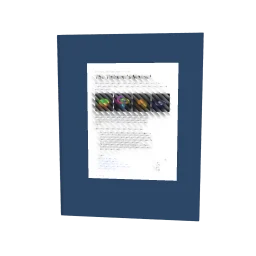
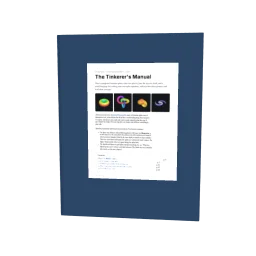
95: guard oblique page opacity on both renderers and finish bounded phone recording tools

diff --git a/tools/pages-review-package.py b/tools/pages-review-package.py
@@ -17,7 +17,10 @@ import sys
 from PIL import Image, ImageDraw, ImageFont
 
 root = Path(__file__).resolve().parent.parent
-work = (root / (sys.argv[1] if len(sys.argv) > 1 else 'work/pages-r2')).resolve()
+arguments = [a for a in sys.argv[1:] if not a.startswith('--')]
+work = (root / (arguments[0] if arguments else 'work/pages-r2')).resolve()
+motion_only = '--motion-only' in sys.argv[1:]
+benchmark_only = '--benchmark-only' in sys.argv[1:]
 out = work / 'clips-tree/docs/audits/pages-r2-2026-10-clips'
 out.mkdir(parents=True, exist_ok=True)
 scenes = {'r2-book': 'your-book', 'r2-lab': 'picture-lab', 'r2-album': 'photo-album', 'r2-text': 'text', 'r2-chart': 'chart', 'r2-diagram': 'diagram'}
@@ -51,90 +54,100 @@ def encode(label, scene):
     solo = out / f'{scenes[scene]}-{label}.mp4'
     ffmpeg(['-i', str(movie), '-vf', f"pad=iw:ih+44:0:44:color=white,drawtext=fontfile={font_path}:text='{label}':x=8:y=3:fontsize=17:fontcolor=black,drawtext=fontfile={font_path}:text='Stepped animation - preparation waits omitted':x=8:y=26:fontsize=10:fontcolor=black", '-c:v', 'libx264', '-crf', '16', '-preset', 'medium', '-pix_fmt', 'yuv420p', '-threads', '2', '-movflags', '+faststart', str(solo)])
     meta = json.loads((work / f'clips-{label}' / f'pg6-{scene}.json').read_text())
+    # Keep the launcher's initial tool hash separately when the recorder
+    # itself reports the exact version executed for this scene.
+    initial_hash = meta.get('recorderSha256')
+    if initial_hash:
+        meta['orchestratorInitialRecorderSha256'] = initial_hash
+        meta['recorderSha256'] = meta.get('executedRecorderSha256', initial_hash)
     if abs(total * 1000 - meta['durationMs']) > .1:
         raise ValueError('Frame durations do not match recorder metadata')
     return movie, raw, entries, meta
 
-# Archive the exact quantitative inputs and crops beside the motion evidence.
-import hashlib
-import shutil
+if not motion_only:
+    # Archive the exact quantitative inputs and crops beside the motion evidence.
+    import hashlib
+    import shutil
 
-bench = out / 'benchmark'
-crops = bench / 'crops'
-stills = out / 'stills'
-for directory in [bench, crops, stills]:
-    directory.mkdir(parents=True, exist_ok=True)
-data = {}
-artifacts = {}
-for revision in ['main', 'round2']:
-    data[revision] = json.loads((work / f'paired-{revision}.json').read_text())
-    if len(data[revision]['records']) != 72:
-        raise ValueError('A final matrix needs 72 records per revision')
-    shutil.copyfile(work / f'paired-{revision}.json', bench / f'{revision}.json')
-    for record in data[revision]['records']:
-        profile, toy, case = [record[k] for k in ['profile', 'toy', 'input']]
-        repeat = record['comparisonRepeat']
-        original = root / record['artifactDirectory']
-        stem = f'{profile}-{toy}-{case}-{record["repeat"]}'
-        name = f'{profile}-{toy}-{case}-{repeat}-{revision}'
-        artifacts[name] = {}
-        for kind in ['source', 'render']:
-            target = crops / f'{name}-{kind}.png'
-            shutil.copyfile(original / f'{stem}-{kind}.png', target)
-            if target.stat().st_size > 1_000_000:
-                raise ValueError(f'A review image exceeds 1 MB: {target}')
-            artifacts[name][kind] = {'file': str(target.relative_to(out)), 'sha256': hashlib.sha256(target.read_bytes()).hexdigest()}
-        if revision == 'round2' and case == 'sample' and repeat == 1:
-            image = Image.open(original / f'{stem}.png').convert('RGB')
-            target = stills / f'{profile}-{toy}.jpg'
-            for quality in [95, 90, 85, 80]:
-                image.save(target, quality=quality, optimize=True, progressive=True)
-                if target.stat().st_size <= 1_000_000:
-                    break
-            if target.stat().st_size > 1_000_000:
-                raise ValueError('A whole-page review screenshot exceeds 1 MB')
-for suffix in ['md', 'json']:
-    shutil.copyfile(work / f'paired-comparison.{suffix}', bench / f'comparison.{suffix}')
-(bench / 'artifacts.json').write_text(json.dumps(artifacts, indent=2) + '\n')
-comparison = json.loads((bench / 'comparison.json').read_text())
-for toy in ['picture-lab', 'your-book', 'photo-album']:
-    name = f'phone-{toy}-text-1'
-    paths = [crops / f'{name}-main-source.png', crops / f'{name}-main-render.png', crops / f'{name}-round2-render.png']
-    images = [Image.open(p).convert('RGB') for p in paths]
-    row = next(r for r in comparison['rows'] if r['profile'] == 'phone' and r['toy'] == toy and r['input'] == 'text')
-    width = max(440, *(im.width for im in images))
-    height = sum(im.height + 30 for im in images) + 90
-    sheet = Image.new('RGB', (width, height), 'white')
-    draw = ImageDraw.Draw(sheet)
-    font_small = ImageFont.truetype(font_path, 14)
-    draw.text((8, 4), f'{toy}: phone body text', font=font_small, fill='black')
-    draw.text((8, 24), 'Native pixels, no crop resizing; repeat 1', font=font_small, fill='black')
-    draw.text((8, 44), f'Medians: sharpness +{row["rawEdgeGain"] * 100:.1f}%, SSIM {row["ssimGain"]:+.4f}', font=font_small, fill='black')
-    y = 90
-    for label, im in zip(['Independent source', 'Main', 'Round 2'], images):
-        draw.text((8, y + 3), label, font=font_small, fill='black')
-        sheet.paste(im, (0, y + 30))
-        y += im.height + 30
-    target = stills / f'phone-{toy}-text.png'
-    sheet.save(target, optimize=True)
-    if target.stat().st_size > 1_000_000:
-        raise ValueError('A body-text comparison exceeds 1 MB')
-(stills / 'README.md').write_text('''# Still comparisons
+    bench = out / 'benchmark'
+    crops = bench / 'crops'
+    stills = out / 'stills'
+    for directory in [bench, crops, stills]:
+        directory.mkdir(parents=True, exist_ok=True)
+    data = {}
+    artifacts = {}
+    for revision in ['main', 'round2']:
+        data[revision] = json.loads((work / f'paired-{revision}.json').read_text())
+        if len(data[revision]['records']) != 72:
+            raise ValueError('A final matrix needs 72 records per revision')
+        shutil.copyfile(work / f'paired-{revision}.json', bench / f'{revision}.json')
+        for record in data[revision]['records']:
+            profile, toy, case = [record[k] for k in ['profile', 'toy', 'input']]
+            repeat = record['comparisonRepeat']
+            original = root / record['artifactDirectory']
+            stem = f'{profile}-{toy}-{case}-{record["repeat"]}'
+            name = f'{profile}-{toy}-{case}-{repeat}-{revision}'
+            artifacts[name] = {}
+            for kind in ['source', 'render']:
+                target = crops / f'{name}-{kind}.png'
+                shutil.copyfile(original / f'{stem}-{kind}.png', target)
+                if target.stat().st_size > 1_000_000:
+                    raise ValueError(f'A review image exceeds 1 MB: {target}')
+                artifacts[name][kind] = {'file': str(target.relative_to(out)), 'sha256': hashlib.sha256(target.read_bytes()).hexdigest()}
+            if revision == 'round2' and case == 'sample' and repeat == 1:
+                image = Image.open(original / f'{stem}.png').convert('RGB')
+                target = stills / f'{profile}-{toy}.jpg'
+                for quality in [95, 90, 85, 80]:
+                    image.save(target, quality=quality, optimize=True, progressive=True)
+                    if target.stat().st_size <= 1_000_000:
+                        break
+                if target.stat().st_size > 1_000_000:
+                    raise ValueError('A whole-page review screenshot exceeds 1 MB')
+    for suffix in ['md', 'json']:
+        shutil.copyfile(work / f'paired-comparison.{suffix}', bench / f'comparison.{suffix}')
+    (bench / 'artifacts.json').write_text(json.dumps(artifacts, indent=2) + '\n')
+    comparison = json.loads((bench / 'comparison.json').read_text())
+    for toy in ['picture-lab', 'your-book', 'photo-album']:
+        name = f'phone-{toy}-text-1'
+        paths = [crops / f'{name}-main-source.png', crops / f'{name}-main-render.png', crops / f'{name}-round2-render.png']
+        images = [Image.open(p).convert('RGB') for p in paths]
+        row = next(r for r in comparison['rows'] if r['profile'] == 'phone' and r['toy'] == toy and r['input'] == 'text')
+        width = max(440, *(im.width for im in images))
+        height = sum(im.height + 30 for im in images) + 90
+        sheet = Image.new('RGB', (width, height), 'white')
+        draw = ImageDraw.Draw(sheet)
+        font_small = ImageFont.truetype(font_path, 14)
+        draw.text((8, 4), f'{toy}: phone body text', font=font_small, fill='black')
+        draw.text((8, 24), 'Native pixels, no crop resizing; repeat 1', font=font_small, fill='black')
+        draw.text((8, 44), f'Medians: sharpness +{row["rawEdgeGain"] * 100:.1f}%, SSIM {row["ssimGain"]:+.4f}', font=font_small, fill='black')
+        y = 90
+        for label, im in zip(['Independent source', 'Main', 'Round 2'], images):
+            draw.text((8, y + 3), label, font=font_small, fill='black')
+            sheet.paste(im, (0, y + 30))
+            y += im.height + 30
+        target = stills / f'phone-{toy}-text.png'
+        sheet.save(target, optimize=True)
+        if target.stat().st_size > 1_000_000:
+            raise ValueError('A body-text comparison exceeds 1 MB')
+    (stills / 'README.md').write_text('''# Still comparisons
 
-These body-text images retain their native framebuffer crop pixels without resizing. All use repeat 1, rather than selecting the best run. Caption scores are three-repeat medians. The independent reference was rendered at width 2,048 and sampled at the displayed pixel grid. The separate main and round 2 reference crops are in the benchmark archive.
+    These body-text images retain their native framebuffer crop pixels without resizing. All use repeat 1, rather than selecting the best run. Caption scores are three-repeat medians. The independent reference was rendered at width 2,048 and sampled at the displayed pixel grid. The separate main and round 2 reference crops are in the benchmark archive.
 
-Whole-page images are JPEG review copies of repeat 1 of each toy's sample at 390×844 and 1440×900; quantitative crops remain PNG. All images are below 1 MB. Recording and original comparison contributions are CC0, made by Ryan with Codex (GPT-6); existing photo credits remain in CREDITS.md.
+    Whole-page images are JPEG review copies of repeat 1 of each toy's sample at 390×844 and 1440×900; quantitative crops remain PNG. All images are below 1 MB. Recording and original comparison contributions are CC0, made by Ryan with Codex (GPT-6); existing photo credits remain in CREDITS.md.
 
-| Toy | Body text | Phone sample | Desktop sample |
-| --- | --- | --- | --- |
-''' + '\n'.join(f'| {toy} | [PNG](phone-{toy}-text.png) | [JPEG](phone-{toy}.jpg) | [JPEG](desktop-{toy}.jpg) |' for toy in ['your-book', 'picture-lab', 'photo-album']) + '\n')
-(bench / 'README.md').write_text('''# Matched benchmark evidence
+    | Toy | Body text | Phone sample | Desktop sample |
+    | --- | --- | --- | --- |
+    ''' + '\n'.join(f'| {toy} | [PNG](phone-{toy}-text.png) | [JPEG](phone-{toy}.jpg) | [JPEG](desktop-{toy}.jpg) |' for toy in ['your-book', 'picture-lab', 'photo-album']) + '\n')
+    (bench / 'README.md').write_text('''# Matched benchmark evidence
 
-The raw [main records](main.json), [round 2 records](round2.json), [comparison table](comparison.md), and [comparison checks](comparison.json) contain the final three-repeat measurements for all 24 input/toy/profile groups. Renderer, fixture, tool, protocol, source commit, and runtime hashes are retained. The [artifact manifest](artifacts.json) maps each case and repeat to its exact source and rendered crop and their SHA-256 hashes.
+    The raw [main records](main.json), [round 2 records](round2.json), [comparison table](comparison.md), and [comparison checks](comparison.json) contain the final three-repeat measurements for all 24 input/toy/profile groups. Renderer, fixture, tool, protocol, source commit, and runtime hashes are retained. The [artifact manifest](artifacts.json) maps each case and repeat to its exact source and rendered crop and their SHA-256 hashes.
 
-See the implementation branch's [audit](https://github.com/ryanjosephkamp/splashery/blob/codex/book-picture-lab-r2/docs/audits/pages-r2-2026-10.md) for definitions, commands, exploratory exclusions, and limits. Copy the archived fixtures into work/pages-r2/fixtures before reproducing the matrix. These are software-renderer browser measurements, not physical-phone measurements. Stepped clips are separate motion evidence.
-''')
-print('Archived 144 raw records, 288 exact crops, and nine still comparisons.', flush=True)
+    See the implementation branch's [audit](https://github.com/ryanjosephkamp/splashery/blob/codex/book-picture-lab-r2/docs/audits/pages-r2-2026-10.md) for definitions, commands, exploratory exclusions, and limits. Copy the archived fixtures into work/pages-r2/fixtures before reproducing the matrix. These are software-renderer browser measurements, not physical-phone measurements. Stepped clips are separate motion evidence.
+    ''')
+    print('Archived 144 raw records, 288 exact crops, and nine still comparisons.', flush=True)
+
+if benchmark_only:
+    sys.exit(0)
 
 all_metadata = {}
 for scene, name in scenes.items():
@@ -142,7 +155,7 @@ for scene, name in scenes.items():
     candidate, raw_candidate, frames_candidate, meta_candidate = encode('round2', scene)
     filters = []
     for index, label in enumerate(['main', 'round 2']):
-        filters.append(f"[{index}:v]pad=iw:ih+44:0:44:color=white,drawtext=fontfile={font_path}:text='{label}':x=8:y=3:fontsize=17:fontcolor=black,drawtext=fontfile={font_path}:text='Stepped at 12 fps - preparation waits omitted':x=8:y=26:fontsize=10:fontcolor=black[v{index}]")
+        filters.append(f"[{index}:v]pad=iw:ih+44:0:44:color=white,drawtext=fontfile={font_path}:text='{label}':x=8:y=3:fontsize=17:fontcolor=black,drawtext=fontfile={font_path}:text='Stepped animation - preparation waits omitted':x=8:y=26:fontsize=10:fontcolor=black[v{index}]")
     filters.append('[v0][v1]hstack=inputs=2:shortest=0,format=yuv420p[v]')
     target = out / f'{name}.mp4'
     ffmpeg(['-i', str(main), '-i', str(candidate), '-filter_complex', ';'.join(filters), '-map', '[v]', '-c:v', 'libx264', '-crf', '16', '-preset', 'medium', '-pix_fmt', 'yuv420p', '-threads', '2', '-movflags', '+faststart', str(target)])
@@ -168,4 +181,4 @@ for scene, name in scenes.items():
     print(name, target.stat().st_size, strip.stat().st_size, flush=True)
 (out / 'recordings.json').write_text(json.dumps(all_metadata, indent=2) + '\n')
 links = '\n'.join(f'<article><h2>{name.replace("-", " ").title()}</h2><video controls muted loop playsinline preload="metadata" src="{name}.mp4"></video><p><a href="{name}-main.mp4">Main at full phone width</a> · <a href="{name}-round2.mp4">Round 2 at full phone width</a> · <a href="{name}-strip.jpg">Six-frame contact sheet</a></p></article>' for name in scenes.values())
-(out / 'index.html').write_text('''<!doctype html><meta charset="utf-8"><meta name="viewport" content="width=device-width,initial-scale=1"><title>Book and Picture lab round 2: effect review</title><style>body{font:16px/1.5 system-ui,sans-serif;max-width:1000px;margin:auto;padding:24px;background:#f4f4f4;color:#17202a}video{display:block;max-width:100%;width:780px;background:white}article{margin:40px 0}a{color:#064a91}</style><h1>Phone motion comparisons</h1><p>Main is on the left; round 2 is on the right. These recordings use a stepped 12 fps animation clock, with preparation waits omitted. They show motion and edge quality; the separate real-clock benchmark measures performance.</p><p>390×844 CSS pixels per view, device scale 2, and low detail. See <a href="README.md">the methods, source commits, and limitations</a>. Evidence-only branch: never merge.</p>''' + links + '\n')
+(out / 'index.html').write_text('''<!doctype html><meta charset="utf-8"><meta name="viewport" content="width=device-width,initial-scale=1"><title>Book and Picture lab round 2: effect review</title><style>body{font:16px/1.5 system-ui,sans-serif;max-width:1000px;margin:auto;padding:24px;background:#f4f4f4;color:#17202a}video{display:block;max-width:100%;width:780px;background:white}article{margin:40px 0}a{color:#064a91}</style><h1>Phone motion comparisons</h1><p>Main is on the left; round 2 is on the right. These recordings use a stepped animation clock at the per-scene cadence recorded in the metadata, with preparation waits omitted. They show motion and edge quality; the separate real-clock benchmark measures performance.</p><p>390×844 CSS pixels per view, device scale 2, and low detail. See <a href="README.md">the methods, source commits, and limitations</a>. Evidence-only branch: never merge.</p>''' + links + '\n')

diff --git a/docs/audits/pages-r2-2026-10.md b/docs/audits/pages-r2-2026-10.md
@@ -138,6 +138,10 @@ native allocations and the software GPU, without counting shared pages repeatedl
   crossed during an opening glide.
 - Flat, rigid faces use one quad and a shorter vertex shader. Curved leaves keep their connected
   grid, and raised relief retains its denser surface.
+- A dedicated opaque layer renders picture faces after the splat layer. This prevents coarse backing
+  billboards from covering sharp ink or photos when the camera or leaf tilts. Picking includes both
+  layers. A real-browser comparison with the backing enabled and disabled reproduces the old error
+  and verifies the correction on WebGL2 and WebGPU.
 - Layer masks use exact binary decisions and nearest sampling. Masked cutouts have no soft Gaussian
   backing that could protrude past their silhouettes.
 - Image-file charts and text use graphic classification instead of unconditionally running photo
